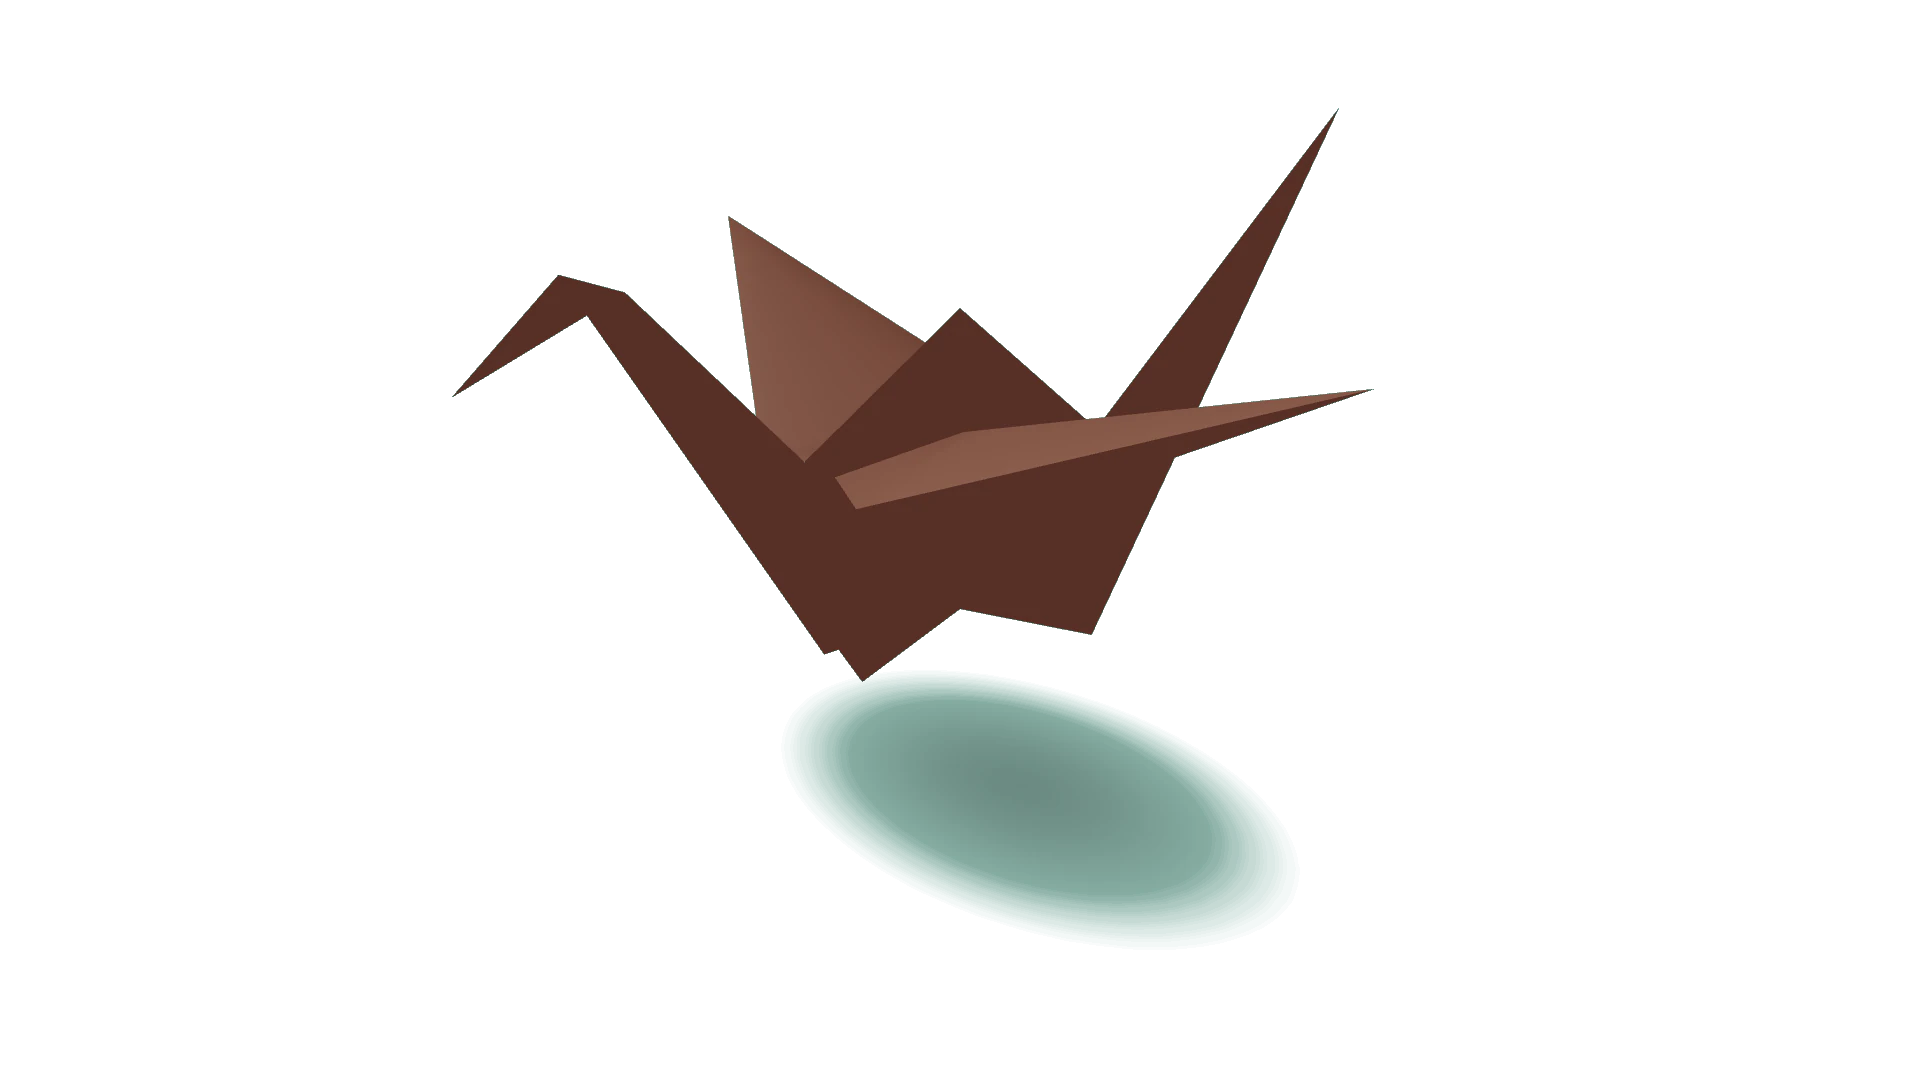
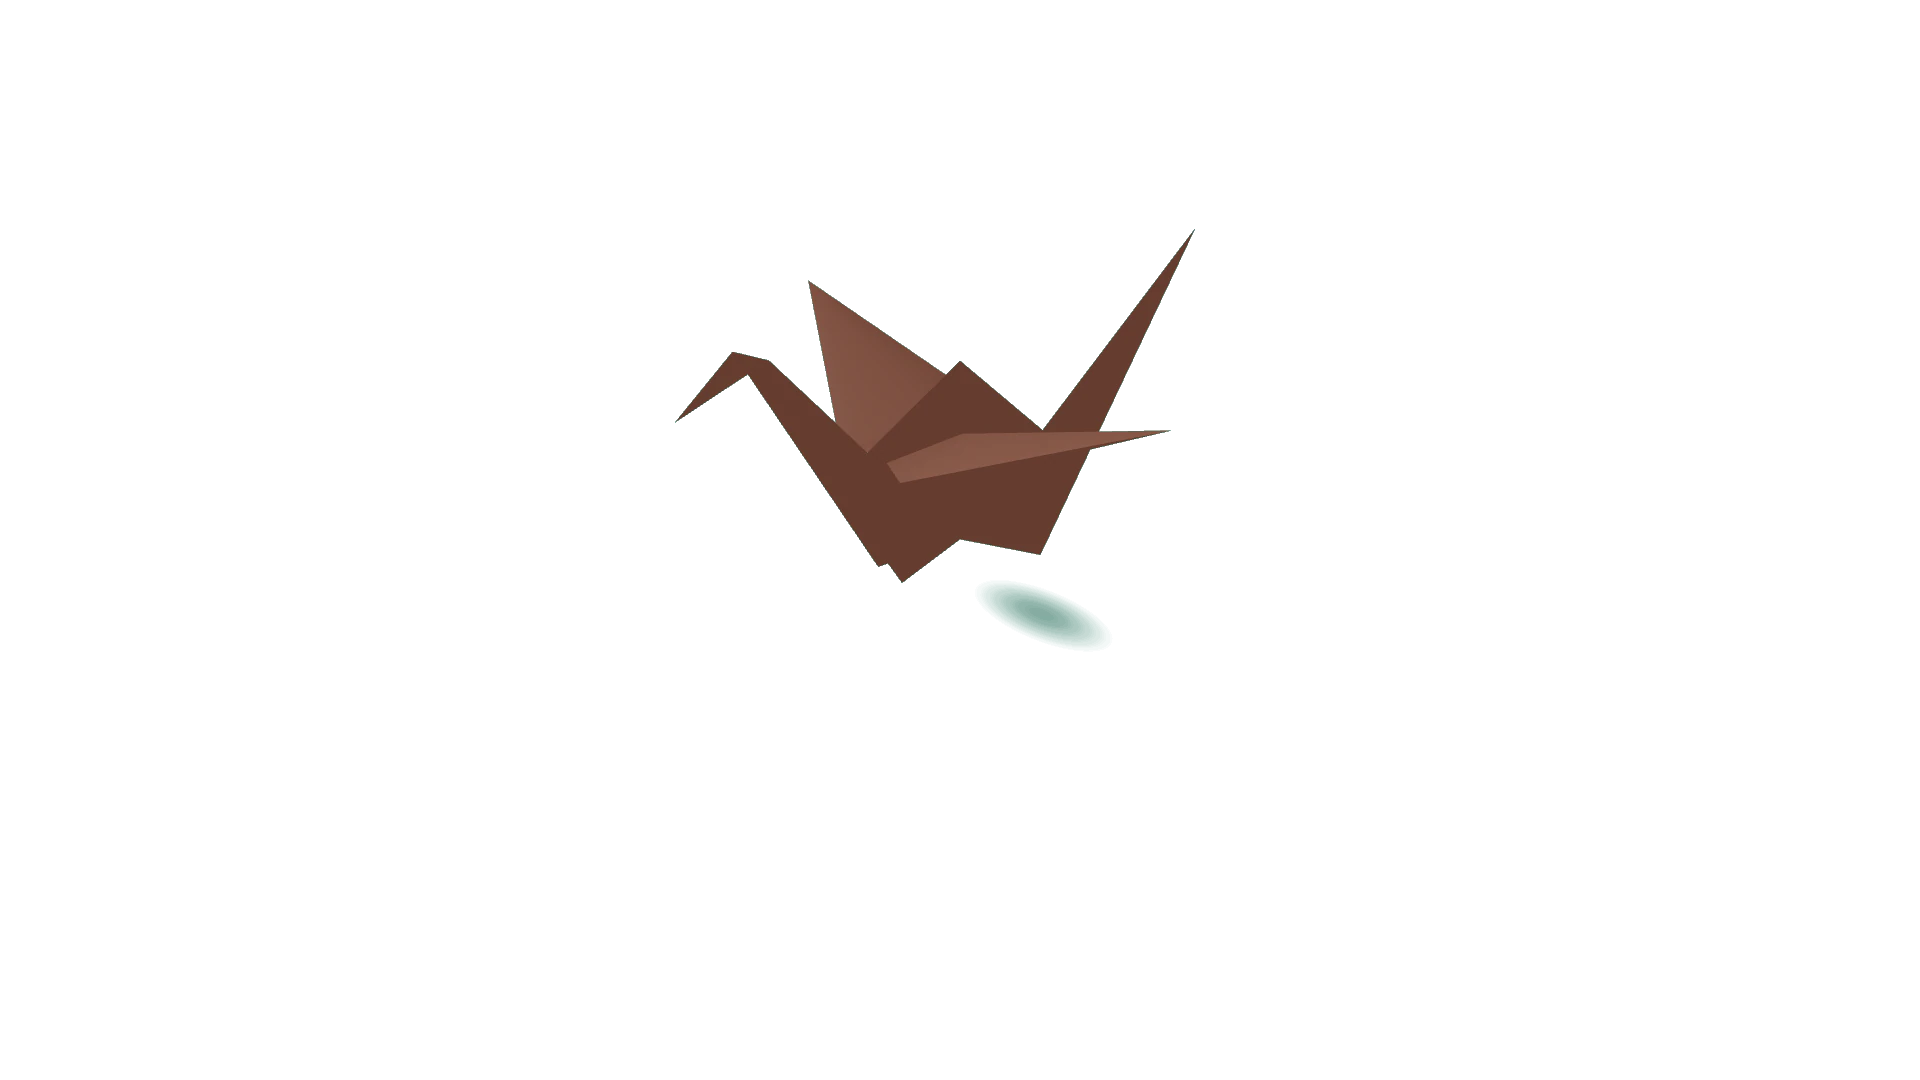
fix: refine home crane composition

Changed region(s): [[0.2188, 0.1222, 0.7188, 0.8861]]

diff --git a/app/three/scene-registry.ts b/app/three/scene-registry.ts
@@ -63,10 +63,10 @@ function lighting(background: string, position: Vector3Tuple): SceneLighting {
 }
 
 const HOME_LIGHTING: SceneLighting = {
-  ambient: { color: "#ffffff", intensity: 1.6 },
+  ambient: { color: "#e8f3f0", intensity: 2.4 },
   key: {
-    color: "#d8eee8",
-    intensity: 2.2,
+    color: "#e8f3f0",
+    intensity: 1.4,
     position: [-3.5, 6, 4.5],
     castShadow: false,
   },
@@ -85,13 +85,13 @@ export const SCENE_DEFINITIONS = {
       mobile: "/posters/home-hero-mobile.webp",
       alt: "",
     },
-    desktop: frame([3.95, 1.7, 2.25], [0, 0.3, 0], 34, DESKTOP_AREA),
+    desktop: frame([6.5, 2.8, 3.7], [0, 0.1, 0], 34, DESKTOP_AREA),
     mobile: frame([8.2, 3.5, 4.7], [0, -0.2, 0], 38, MOBILE_AREA),
     lighting: HOME_LIGHTING,
     contactShadow: {
-      opacity: 0.32,
-      position: [0, -0.47, -0.2],
-      scale: [2.8, 1.7],
+      opacity: 0.16,
+      position: [-0.25, -0.47, -0.6],
+      scale: [1.8, 0.8],
       textureSize: 64,
     },
     rotation: DEFAULT_ROTATION,

diff --git a/app/three/scene-registry.test.ts b/app/three/scene-registry.test.ts
@@ -101,16 +101,16 @@ describe("scene registry", () => {
   it("grounds only Home with one low-resolution blob and no shadow-map light", () => {
     const home = getSceneDefinition("home-hero");
     expect(home.contactShadow).toEqual({
-      opacity: 0.32,
-      position: [0, -0.47, -0.2],
-      scale: [2.8, 1.7],
+      opacity: 0.16,
+      position: [-0.25, -0.47, -0.6],
+      scale: [1.8, 0.8],
       textureSize: 64,
     });
     expect(home.lighting).toEqual({
-      ambient: { color: "#ffffff", intensity: 1.6 },
+      ambient: { color: "#e8f3f0", intensity: 2.4 },
       key: {
-        color: "#d8eee8",
-        intensity: 2.2,
+        color: "#e8f3f0",
+        intensity: 1.4,
         position: [-3.5, 6, 4.5],
         castShadow: false,
       },

diff --git a/tests/browser/poster-capture.spec.ts b/tests/browser/poster-capture.spec.ts
@@ -108,7 +108,9 @@ function inspectPixels(
         Math.abs(pixels[offset + 1] - background[1]),
         Math.abs(pixels[offset + 2] - background[2]),
       );
-      if (delta > 12) {
+      // Lossy WebP may assign arbitrary RGB values to fully transparent
+      // pixels. Only visible pixels can represent clipped focal content.
+      if (pixels[offset + 3] > 0 && delta > 12) {
         foreground += 1;
         minimumForegroundX = Math.min(minimumForegroundX, x);
         minimumForegroundY = Math.min(minimumForegroundY, y);